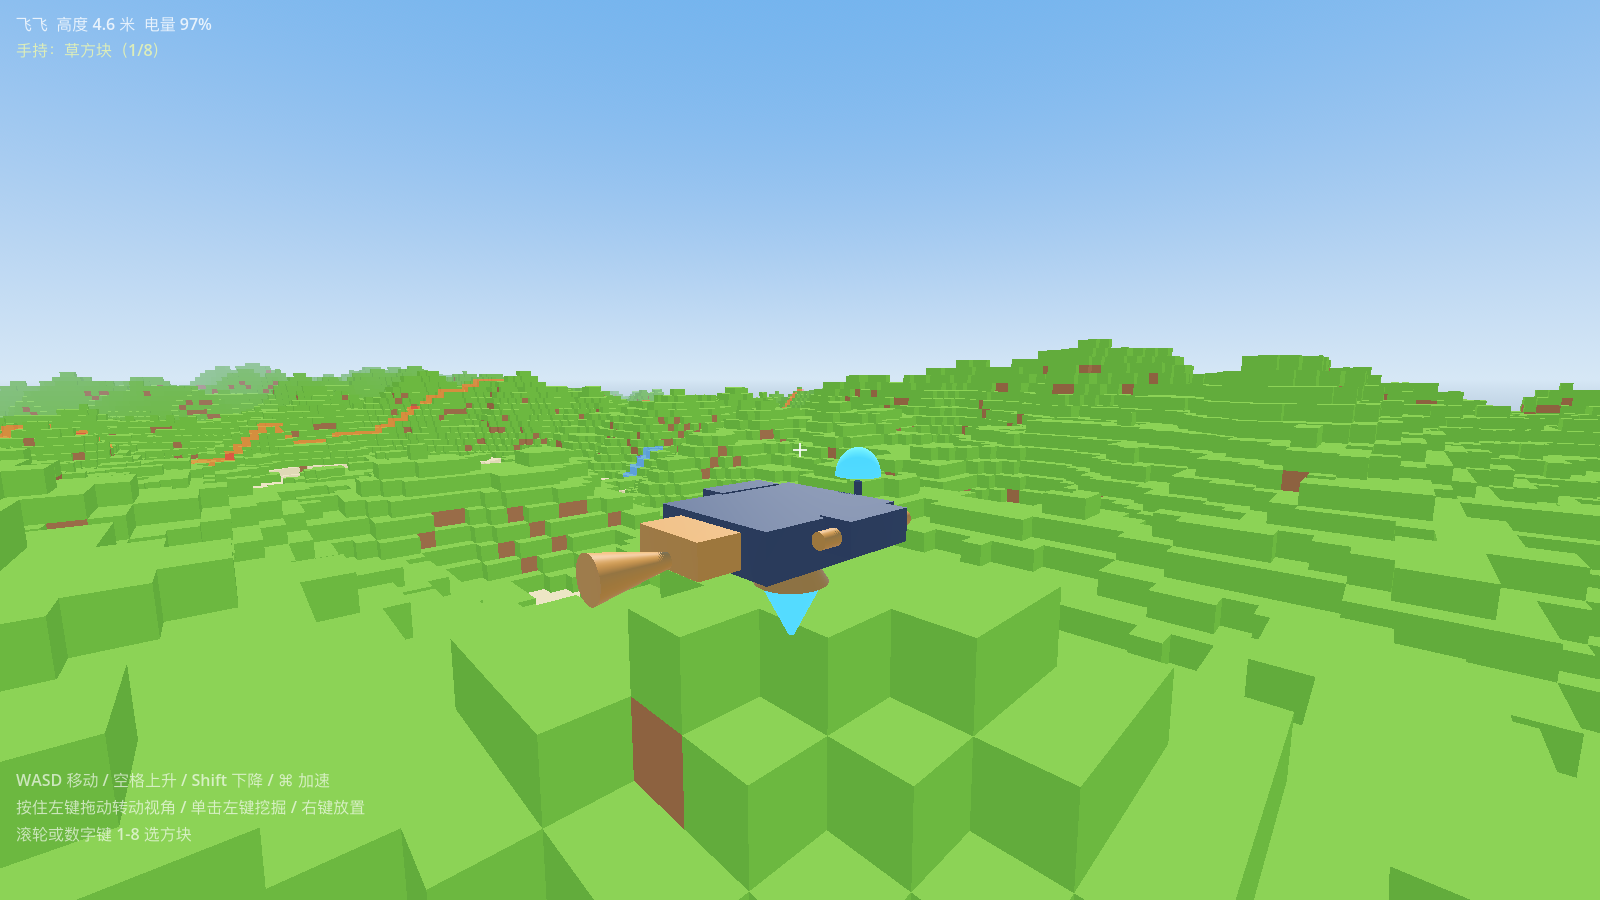
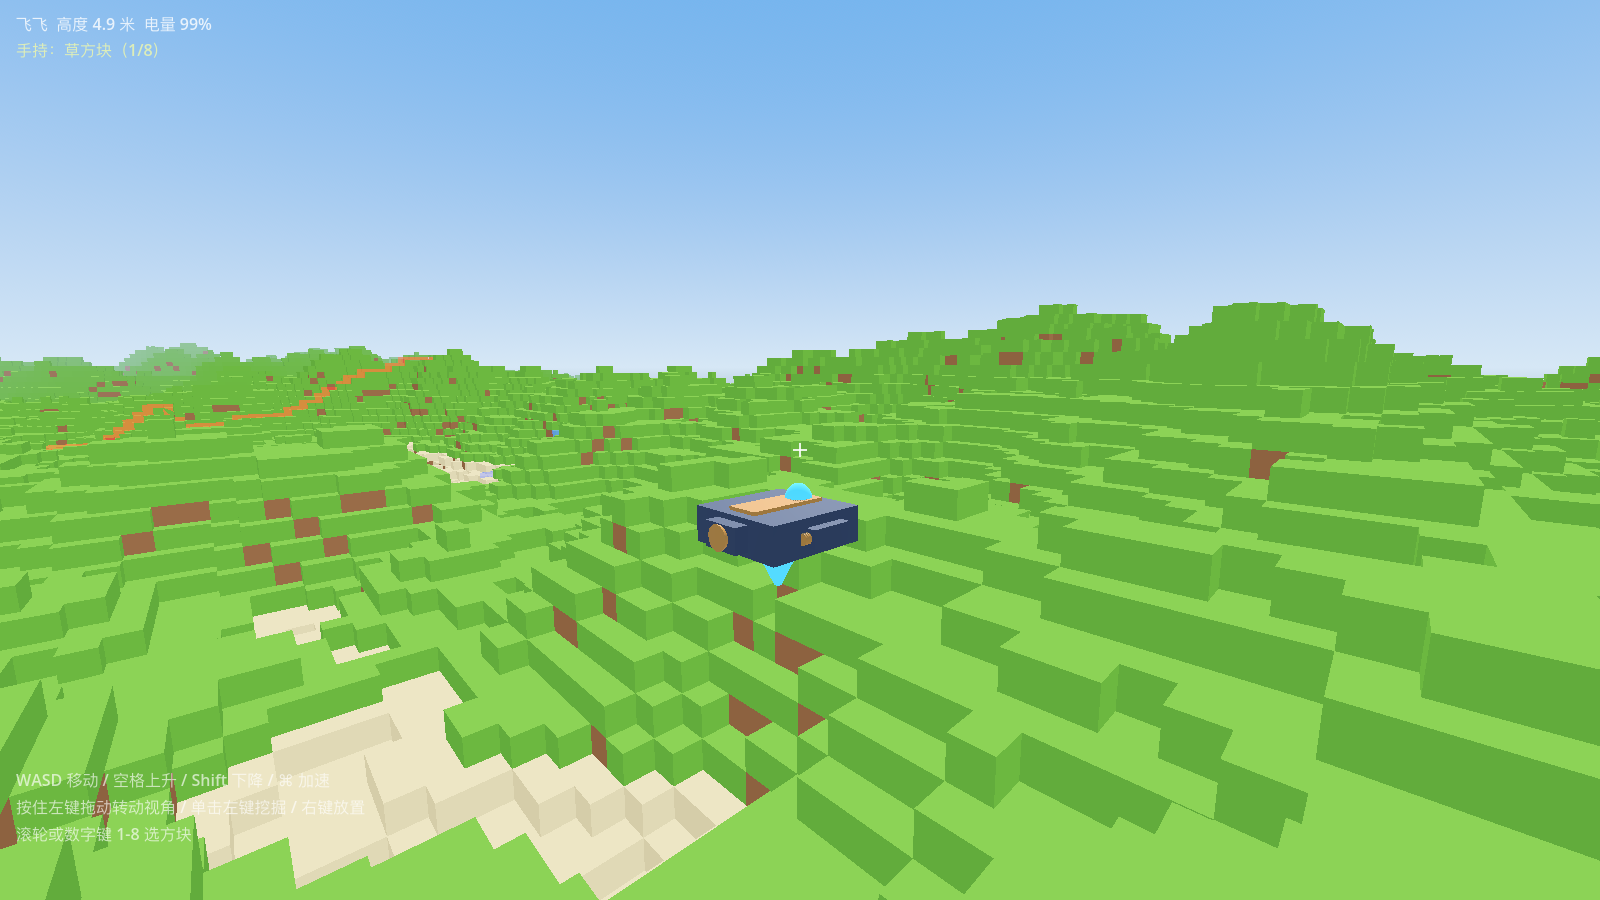
飞飞尺寸改为 0.75 米立方：重做模型比例、按尺寸缩放碰撞与钻头，重定质量/推力/功率

diff --git a/README.md b/README.md
@@ -59,7 +59,8 @@ docs/             预览图、玩家编程手册、上架与版权清单
 - 机身：底部一个可偏转的矢量喷口（升力 + 侧移），左右各一个 RCS 吊舱（前后两个喷口，负责平移和转向）
 - 机头：激光钻头，按控制指令每隔 0.25 秒朝正前方挖掉一个方块
 - 顶部：小雷达，输出以自身为中心 5×5 的方块名和地表高度
-- 参数：40kg / 120kJ 电池 / 升力 2100N / RCS 320N / 喷口偏转 ±24°/ 钻孔 3.4m
+- 尺寸：0.75 × 0.75 × 0.75 米（外接立方体，代码里 `size` 可调）
+- 参数：12kg / 120kJ 电池 / 升力 520N / RCS 60N / 喷口偏转 ±24° / 钻孔 1.5m、0.25s 一次
 
 玩家代码可用的传感器：`pos` `vel` `cell` `yaw` `energy` `energy_ratio` `thrust` `drill_hits` `blocks[5][5]` `heights[5][5]` `here`；
 控制接口：`set_lift(0~1)` `set_tilt(前后, 左右)` `set_rcs(转向, 前后)` `drill(开关)`。
